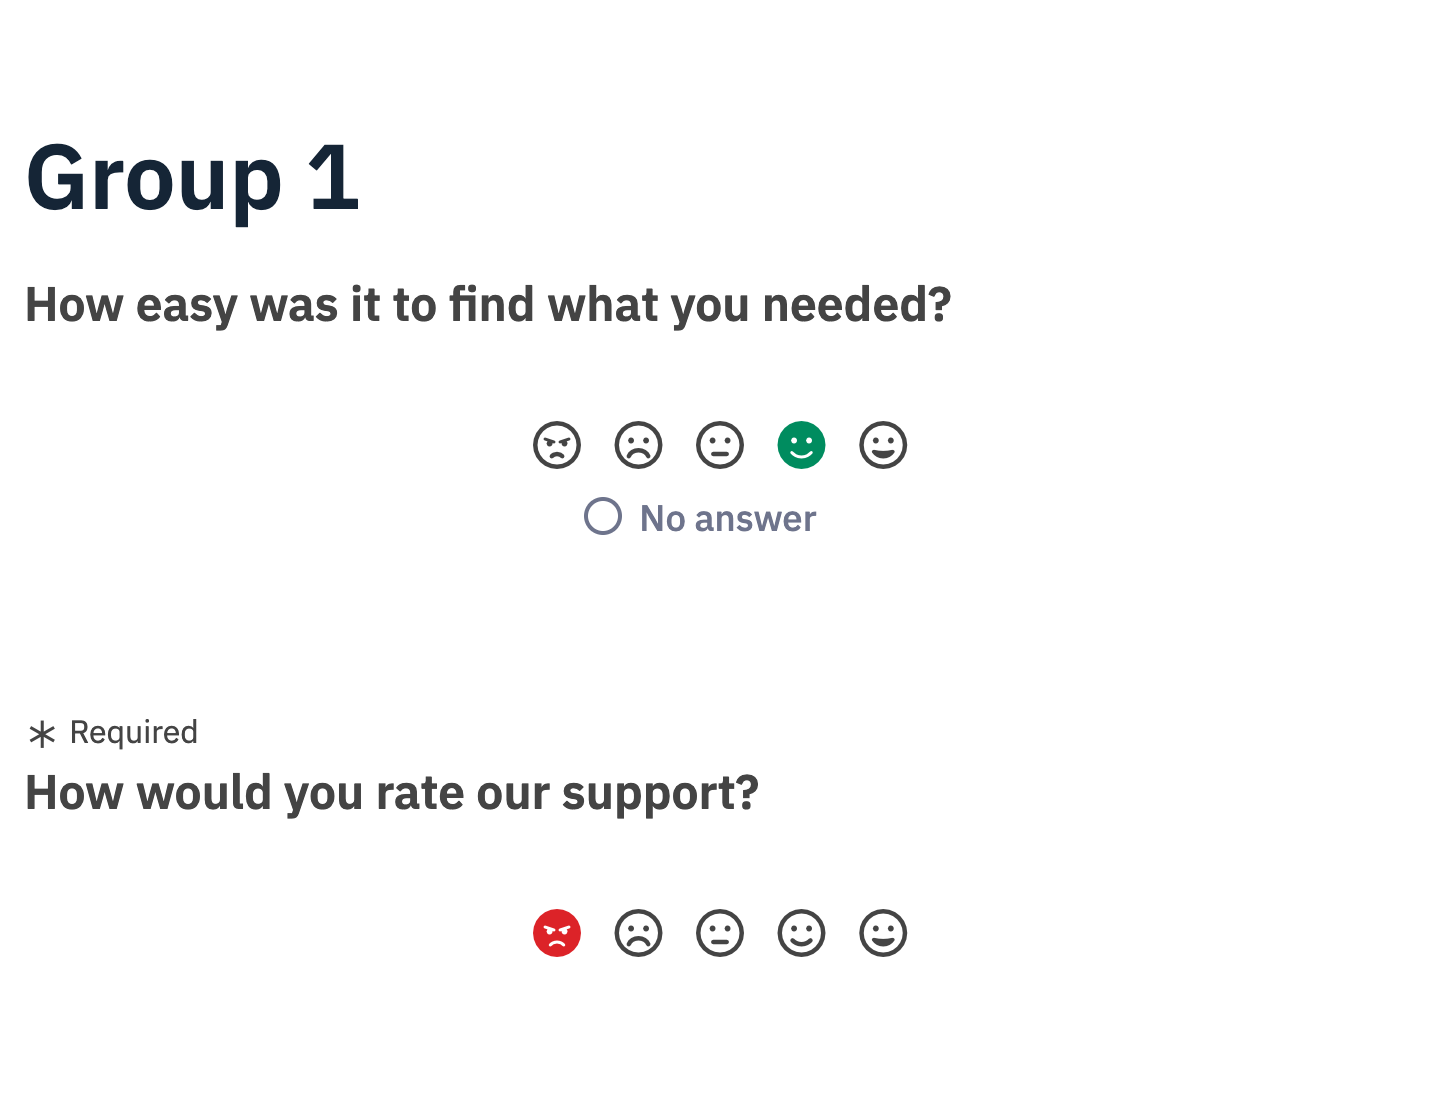
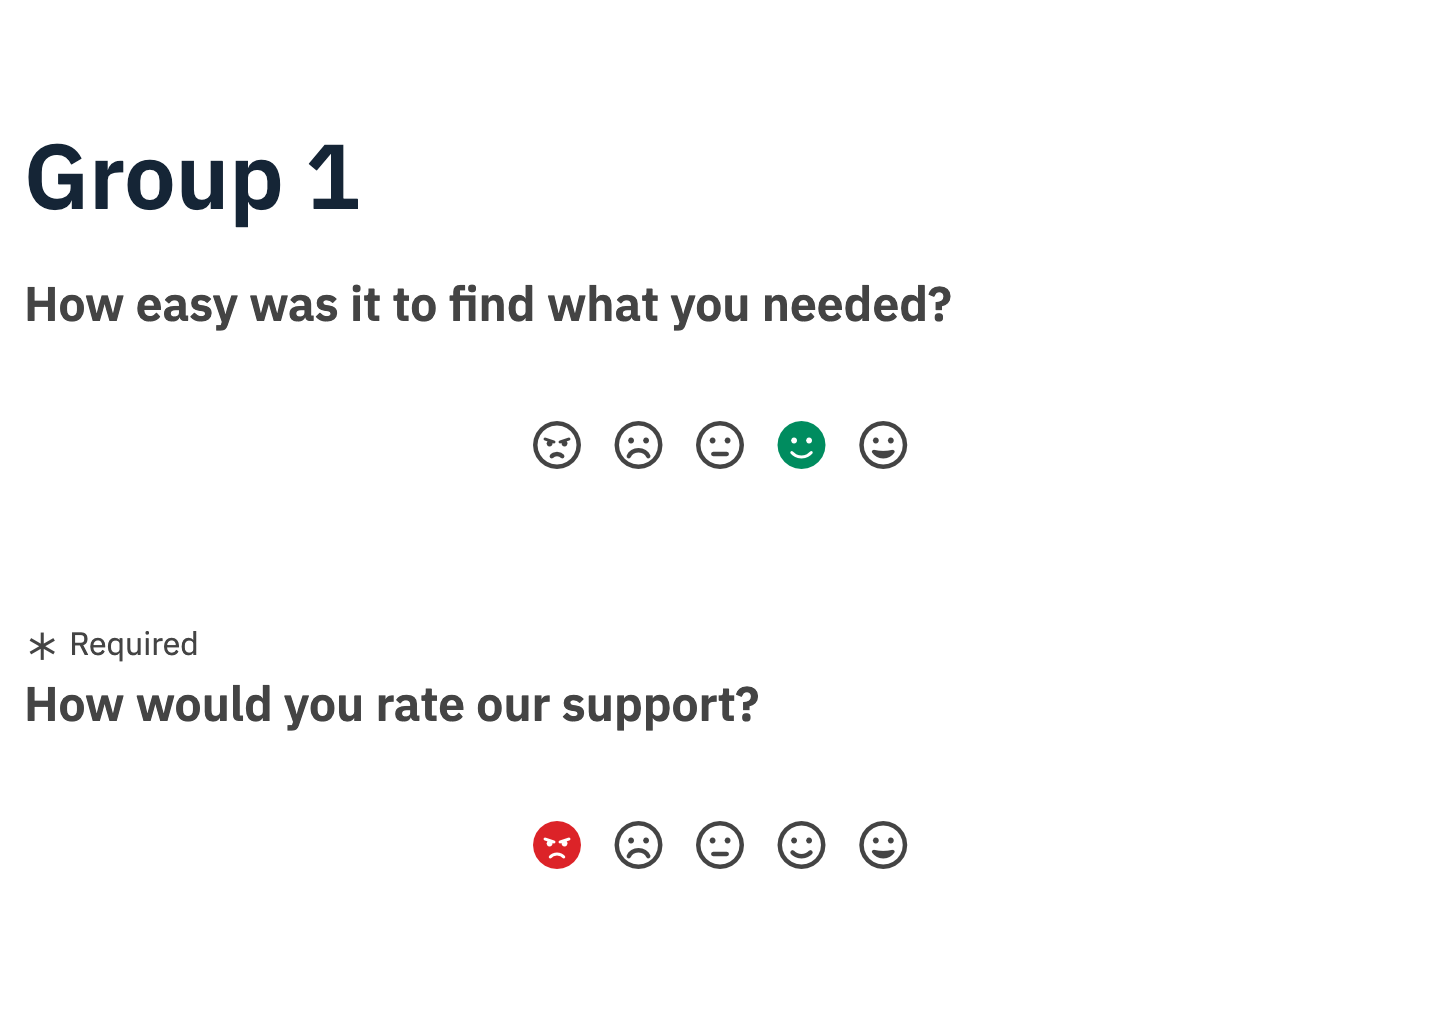
2.2.0: only the five faces, lighter zip
- The "No answer" item of optional questions is not rendered: just the five
  faces. An unanswered question is stored empty, as before.
- The zip carries only the theme (config, two templates, the stylesheet with
  the font: 12 KB) and the two licenses; README, CHANGELOG and the preview
  picture are gone from it (17 KB instead of 28 KB).
- LICENSE-fonts.txt: only the attribution and the OFL that apply to the font.
- README shows the faces as a picture drawn with the theme's font instead of
  emoji characters (GitHub rendered them with the reader's emoji font).

diff --git a/survey/questions/answer/5pointchoice/assets/css/smileys.css b/survey/questions/answer/5pointchoice/assets/css/smileys.css
@@ -144,9 +144,3 @@
     clip-path: inset(50%);
     white-space: nowrap;
 }
-
-/* "No answer" (questions that are not mandatory): an ordinary radio button on its own line */
-.smiley-list .noanswer-item {
-    flex-basis: 100%;
-    text-align: center;
-}

diff --git a/tests/integration/test_theme.py b/tests/integration/test_theme.py
@@ -201,12 +201,12 @@ check(qtype == "5" and extends == "5", "theme for question type 5 (5 point choic
 check(visible == "Y", "theme visible in the question type selector", visible)
 check(author == "saginsa", "author from config.xml", author)
 files = web_sh("cd %s && find . -type f | sort" % THEME_DIR).split()
+check(len(files) == 6, "only the theme files and the two licenses are installed", files)
 for f in ["./survey/questions/answer/5pointchoice/config.xml",
           "./survey/questions/answer/5pointchoice/answer.twig",
           "./survey/questions/answer/5pointchoice/rows/item_row.twig",
           "./survey/questions/answer/5pointchoice/assets/css/smileys.css",
-          "./survey/questions/answer/5pointchoice/assets/images/preview.png",
-          "./README.md", "./LICENSE.txt", "./LICENSE-fonts.txt"]:
+          "./LICENSE.txt", "./LICENSE-fonts.txt"]:
     check(f in files, "installed " + f, files)
 
 step("Survey with two 5 point choice questions on the theme")
@@ -215,7 +215,7 @@ sql("DELETE FROM lime_settings_global WHERE stg_name = 'RPCInterface';\n"
 key = rpc("get_session_key", ADMIN, PASSWORD)
 sid = int(rpc("add_survey", key, 0, "Smileys test", "en", "A"))
 gid = int(rpc("add_group", key, sid, "Group 1", ""))
-# Q1 optional (gets "No answer"), Q2 mandatory; Q3 a core 5 point choice for comparison
+# Q1 optional, Q2 mandatory; Q3 a core 5 point choice for comparison (it keeps "No answer")
 for order, (title, mandatory, theme) in enumerate([("Q1", "N", THEME), ("Q2", "Y", THEME), ("Q3", "N", "5pointchoice")]):
     sql("INSERT INTO lime_questions (sid, gid, type, title, mandatory, question_order, question_theme_name, "
         "relevance, encrypted) VALUES (%d, %d, '5', '%s', '%s', %d, '%s', '1', 'N');\n"
@@ -252,10 +252,15 @@ q1 = [n for n in radios if n.endswith(str(qids["Q1"]))]
 q2 = [n for n in radios if n.endswith(str(qids["Q2"]))]
 check(len(q1) == 1 and len(q2) == 1, "radio groups of Q1 and Q2", list(radios))
 q1, q2 = q1[0], q2[0]
-check([r["value"] for r in radios[q1]] == ["1", "2", "3", "4", "5", ""], "Q1: five faces and \"No answer\"",
+q3 = [n for n in radios if n.endswith(str(qids["Q3"]))]
+check(q3 and [r["value"] for r in radios[q3[0]]][-1] == "", "core question Q3 (optional) has \"No answer\"",
+      q3 and [r["value"] for r in radios[q3[0]]])
+check([r["value"] for r in radios[q1]] == ["1", "2", "3", "4", "5"], "Q1 (optional): only the five faces, no \"No answer\"",
       [r["value"] for r in radios[q1]])
-check([r["value"] for r in radios[q2]] == ["1", "2", "3", "4", "5"], "Q2 (mandatory): five faces, no \"No answer\"",
+check([r["value"] for r in radios[q2]] == ["1", "2", "3", "4", "5"], "Q2 (mandatory): only the five faces",
       [r["value"] for r in radios[q2]])
+lists = re.findall(r'<ul[^>]*smiley-list[^>]*>(.*?)</ul>', page_html, re.S)
+check(len(lists) == 2 and not any("noanswer-item" in l for l in lists), "no \"No answer\" item in the themed lists")
 q1_items = [i for i in page.items if i["id"].startswith("javatbd" + q1 + "_C")]
 for n in range(1, 6):
     cls = q1_items[n - 1]["class"].split()
@@ -263,11 +268,7 @@ for n in range(1, 6):
           "face %d has its classes" % n, cls)
     check(page.labels.get("answer%s%d" % (q1, n), "").strip() == str(n), "face %d label text for screen readers" % n,
           page.labels.get("answer%s%d" % (q1, n)))
-noanswer = q1_items[5]["class"].split()
-check("noanswer-item" in noanswer and "smiley-face" not in noanswer, "\"No answer\" is not drawn as a face", noanswer)
-check(page.labels.get("answer" + q1, "").strip() == "No answer", "\"No answer\" keeps its visible text",
-      page.labels.get("answer" + q1))
-check(not any("checked" in r for r in radios[q1][:5] + radios[q2]), "nothing preselected")
+check(not any("checked" in r for r in radios[q1] + radios[q2]), "nothing preselected")
 java = [i for i in page.inputs if i.get("id") == "java" + q1]
 check(java and java[0].get("value") == "" and "disabled" in java[0], "hidden java<SGQA> input quoted and empty", java)
 

diff --git a/tests/check_theme.py b/tests/check_theme.py
@@ -9,7 +9,7 @@ ROOT = os.path.dirname(os.path.dirname(os.path.abspath(__file__)))
 THEME = os.path.join(ROOT, "survey/questions/answer/5pointchoice")
 CSS = os.path.join(THEME, "assets/css/smileys.css")
 # The files LimeSurvey accepts in a theme upload (allowedthemeuploads + image formats) that we use
-ALLOWED = {".xml", ".twig", ".css", ".png"}
+ALLOWED = {".xml", ".twig", ".css"}
 failed = False
 
 

diff --git a/README.md b/README.md
@@ -1,14 +1,18 @@
 # 5 Point Smileys Text — LimeSurvey question theme
 
 A question theme for the **5 point choice** question type: the answers are five faces, from angry to happy.
-The faces are Unicode characters (😠 ☹ 😐 ☺ 😀) drawn by a tiny font embedded in the stylesheet (2 × 1.3 KB),
-so they are sized with `font-size`, coloured with `color` and look the same in every browser and on every phone.
+The faces are Unicode characters (U+1F620, U+2639, U+1F610, U+263A, U+1F600) drawn by a tiny font embedded
+in the stylesheet (2 × 1.3 KB), so they are sized with `font-size`, coloured with `color` and look the same
+in every browser and on every phone:
+
+<img src="docs/faces.png" width="248" alt="Five outline faces from angry to happy, and below them the same faces filled in red, orange, blue, green and green">
 
 ![Two questions with the theme: one answered with the 4th face, one with the 1st](docs/screenshot.png)
 
 - Five outline faces in the text colour of the survey theme; the selected one becomes a filled face in its colour
   (red, orange, blue, green, green by default).
-- "No answer" for optional questions stays a normal radio button under the faces.
+- Just the five faces: no "No answer" item, also for optional questions (an unanswered question is stored empty,
+  as usual).
 - Real radio buttons underneath: keyboard (Tab, arrow keys; a thin line marks the keyboard focus) and screen
   readers ("1"…"5"). No focus outline after a click.
 - Responses are stored as usual (1–5), conditions and expressions work as with the core question.
@@ -58,7 +62,7 @@ five glyphs from the regular (outline) and solid (filled) styles, mapped to U+1F
 
 The look and the characters are the same as in 1.0, but the embedded font is now an openly licensed one, and
 a few problems are fixed (see [CHANGELOG](CHANGELOG.md)): the theme no longer changes radio buttons of other
-questions on the page, shows "No answer", works with the keyboard and screen readers. The theme name is the same,
+questions on the page, works with the keyboard and screen readers. The theme name is the same,
 so uploading the new zip updates the questions that already use it.
 
 ## Development

diff --git a/CHANGELOG.md b/CHANGELOG.md
@@ -1,5 +1,13 @@
 # Changelog
 
+## 2.2.0 — 2026-11-22
+
+- Only the five faces: the "No answer" item of optional questions is no longer shown (it broke the clean row of faces).
+  An unanswered question is stored empty, as before; a chosen face can be changed but not cleared.
+- Lighter zip: only the theme (12 KB: config, two templates, the stylesheet with the font) and the two licenses;
+  README and CHANGELOG stay on GitHub, the preview picture is gone (LimeSurvey shows its default one).
+- README: the faces as a picture made with the theme's font (GitHub showed the characters with the reader's emoji font).
+
 ## 2.1.0 — 2026-11-22
 
 Back to the look of 1.0: the faces are characters again, sized with `font-size` and coloured with `color`.
